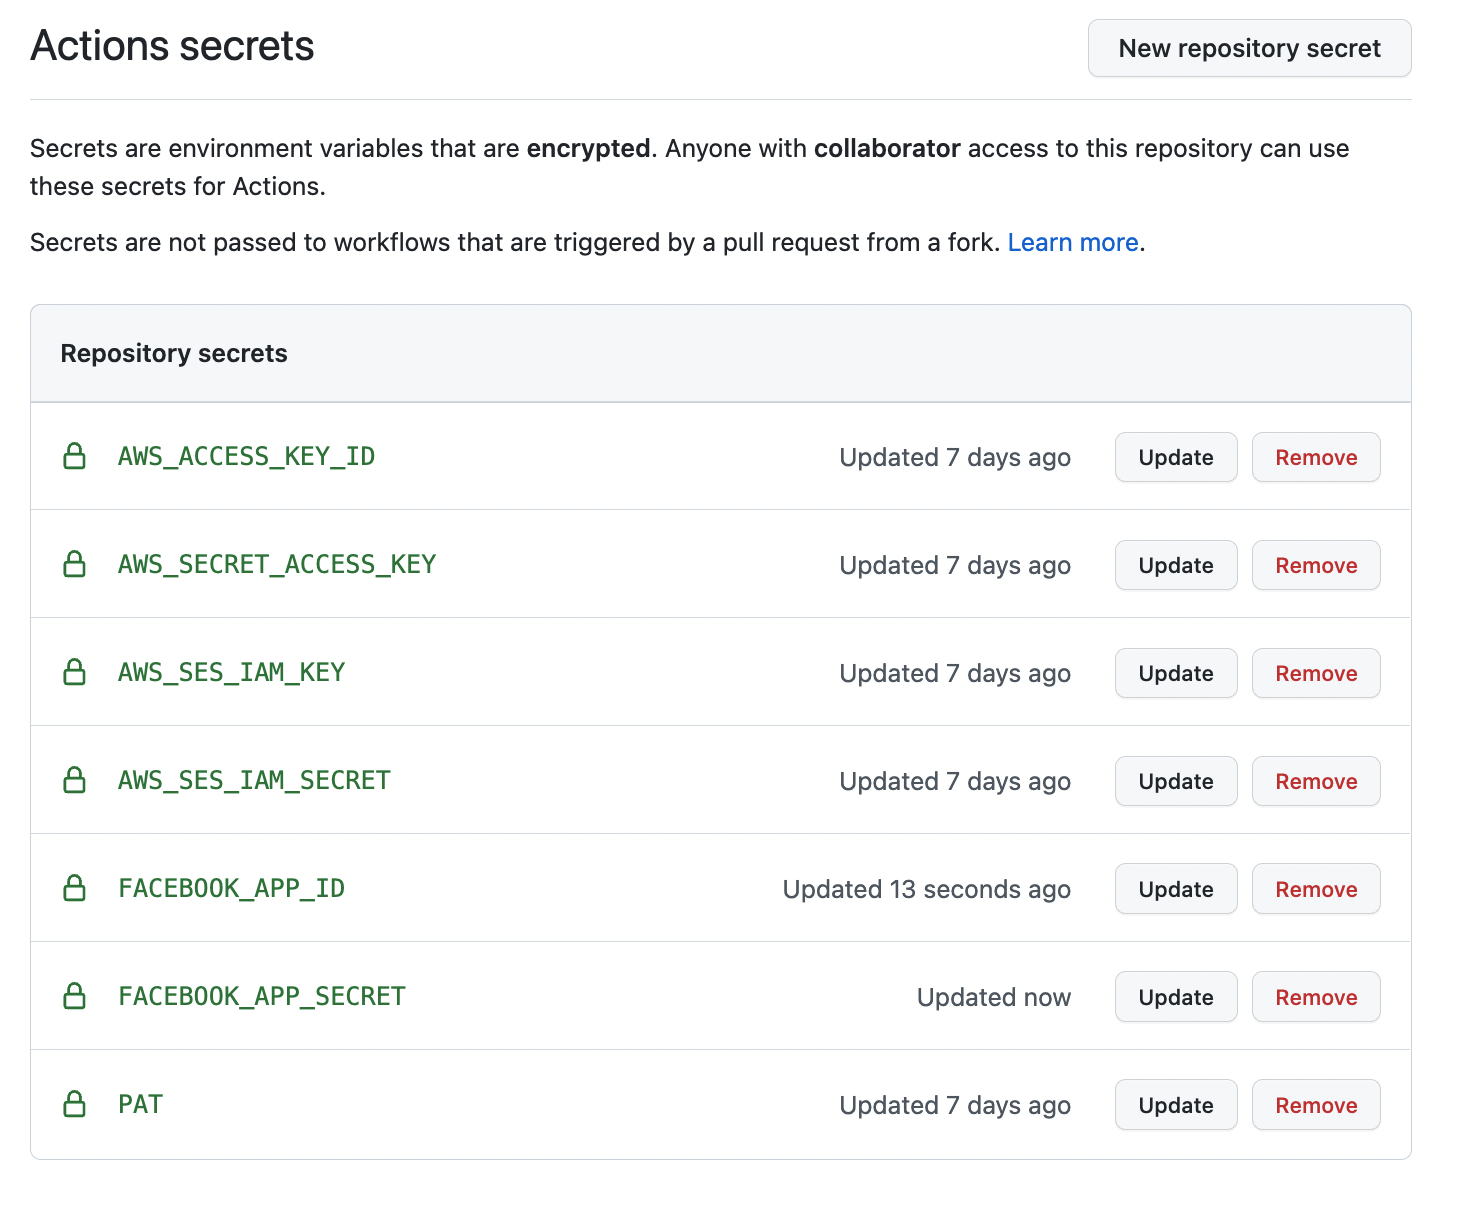
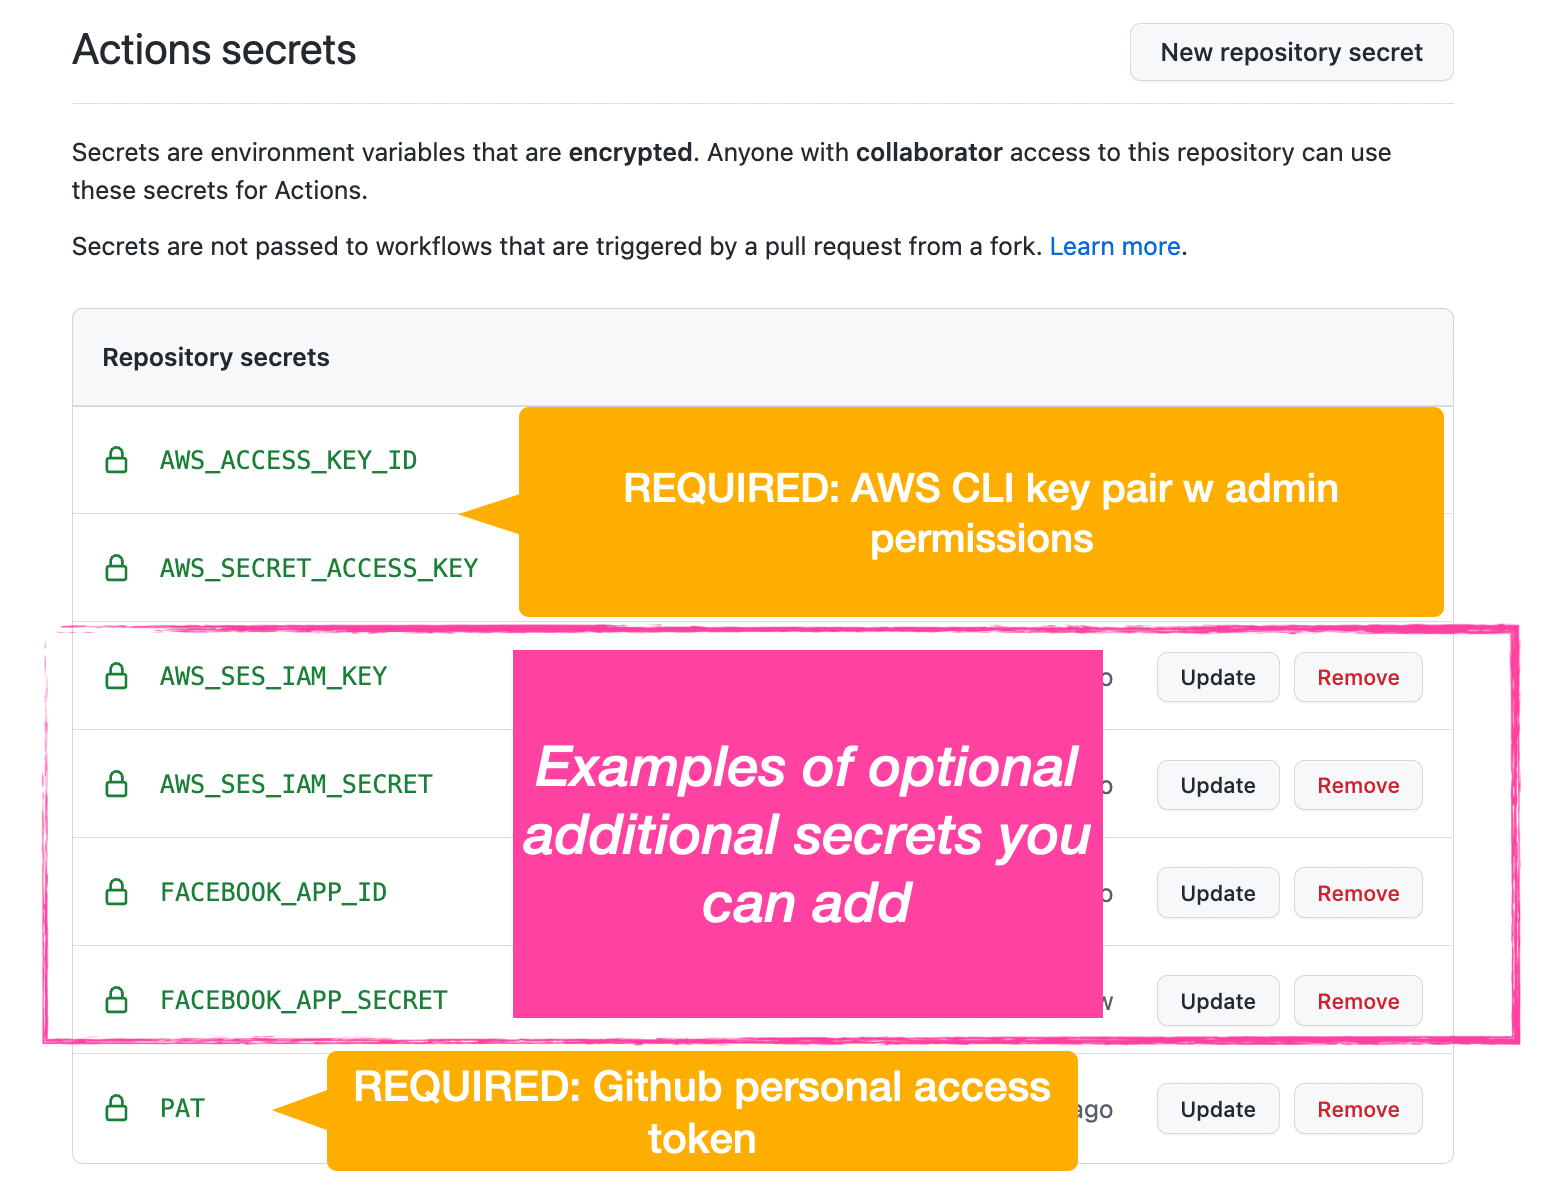
documentation

diff --git a/{{cookiecutter.github_repo_name}}/doc/QUICKSTART.rst b/{{cookiecutter.github_repo_name}}/doc/QUICKSTART.rst
@@ -11,7 +11,7 @@ The automation scripts generated by the Cookiecutter leverage seven key technolo
 6. `Github Actions <https://github.com/features/actions>`_ GitHub Actions makes it easy to automate all your software workflows, now with world-class CI/CD. Build, test, and deploy your code right from GitHub. Make code reviews, branch management, and issue triaging work the way you want.
 7. `AWS Command Line Interface <https://aws.amazon.com/cli/>`_ The AWS Command Line Interface (AWS CLI) is a unified tool to manage your AWS services. Terraform manages AWS resources through its indirect use of the AWS CLI which itself is called directly from the Terraform `AWS Provider <https://registry.terraform.io/providers/hashicorp/aws/latest/docs>`_
 
-The Cookiecutter cutter is a good place to get acquainted with these technologies, as all of the source code is templated and follows industry best practices. You'll likely find existing working code patterns in the Cookiecutter for most things that want to accomplish on an ad hoc basis.
+The Cookiecutter cutter is a good place to get acquainted with these technologies, as all of the source code is templated and follows industry best practices. You'll likely find existing working code patterns in the Cookiecutter for most things that you would want to accomplish on an ad hoc basis.
 
 I. Setup your local environment
 -------------------------------
@@ -23,6 +23,15 @@ Command Line Interface kubectl, and Helm. For best results, you should regularly
 .. code-block:: shell
 
     $ brew install awscli python@3.8 black helm jq k9s kubernetes-cli pre-commit pyyaml terraform terragrunt tflint yq
+
+    # configure awscli
+    # first, follow these instructions to create an IAM keypair: https://docs.aws.amazon.com/IAM/latest/UserGuide/id_credentials_access-keys.html
+    # then afterwards, follow these instruction to configure awscli: https://docs.aws.amazon.com/cli/latest/userguide/cli-configure-quickstart.html
+    $ aws configure
+    AWS Access Key ID [None]: AKIAIOSFODNN7EXAMPLE
+    AWS Secret Access Key [None]: wJalrXUtnFEMI/K7MDENG/bPxRfiCYEXAMPLEKEY
+    Default region name [None]: us-west-2
+    Default output format [None]: json
 
     # add all Helm charts
     $ helm repo add bitnami https://charts.bitnami.com/bitnami
@@ -40,7 +49,7 @@ II. Add Your Secret Credentials To Your New Repository
 The Github Actions workflows in your new repository will depend on several workflow secrets including two sets of AWS IAM keypairs, one for CI workflows and another for the AWS Simple Email Service.
 Additionally, they require a Github Personal Access Token (PAT) for a Github user account with all requisite privileges in your new repository as well as any other repositories that are cloned during any of the build / installation pipelines.
 
-.. image:: doc/repository-secrets.png
+.. image:: ./repository-secrets.png
   :width: 700
   :alt: Github Repository Secrets
 
@@ -127,7 +136,7 @@ V. Connect To Your new bastion server
 v1.01 introduced a newly designed bastion server with a complete set of preinstalled and preconfigured software for adminstering your
 Open edX platform.
 
-.. image:: doc/ec2-bastion.png
+.. image:: ./ec2-bastion.png
   :width: 100%
   :alt: Bastion Welcome Screen
 
@@ -150,7 +159,7 @@ Passwords for the root/admin accounts are accessible from Kubernetes Secrets. No
 
 Specifically with regard to MySQL, several 3rd party analytics tools provide out-of-the-box connectivity to MySQL via a bastion server. Following is an example of how to connect to your MySQL environment using MySQL Workbench.
 
-.. image:: doc/mysql-workbench.png
+.. image:: ./mysql-workbench.png
   :width: 700
   :alt: Connecting to MySQL Workbench
 
